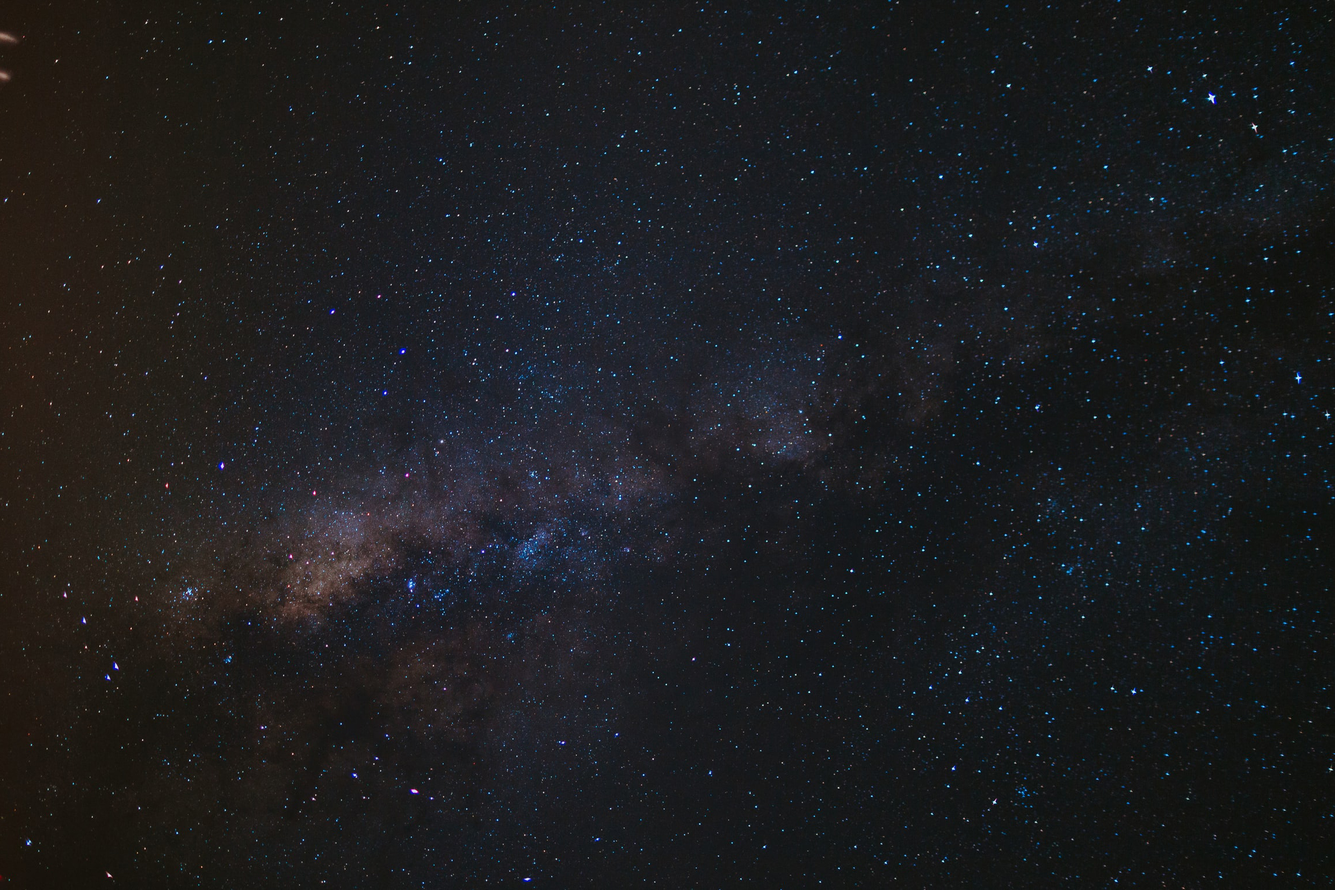
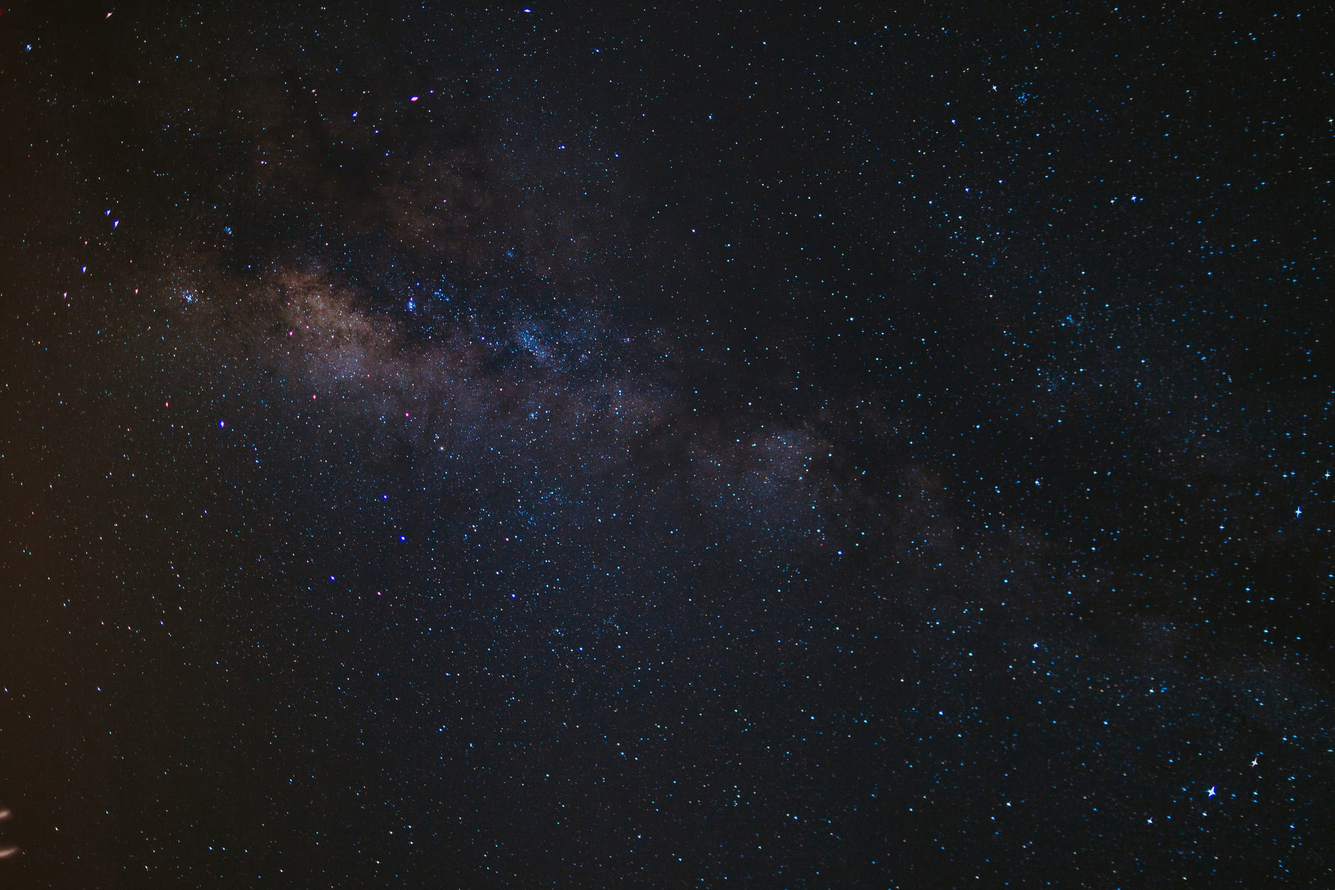
add background image, package-lock.json slightly changed

diff --git a/src/index.html b/src/index.html
@@ -5,7 +5,7 @@
     <title></title>
   </head>
   <body>
-    <h1>Hello World!</h1>
+    <h1>Galactic Age Calculator</h1>
     <div class="container">
       <form id="ageForm">
         <div class="form-group">

diff --git a/src/styles.css b/src/styles.css
@@ -1,3 +1,5 @@
 body {
-  background-image: url(./../src/milkyWay.jpg);
+  margin: 25px;
+  background-image: url(./milkyWay.jpg);
+  color: white;
 }
